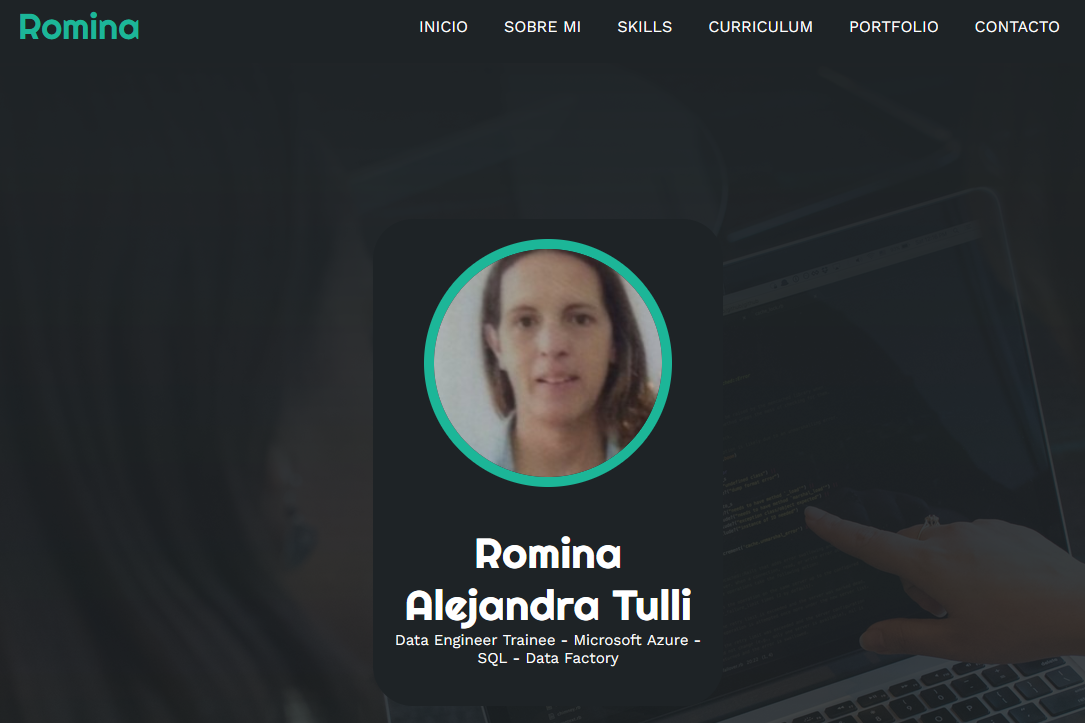
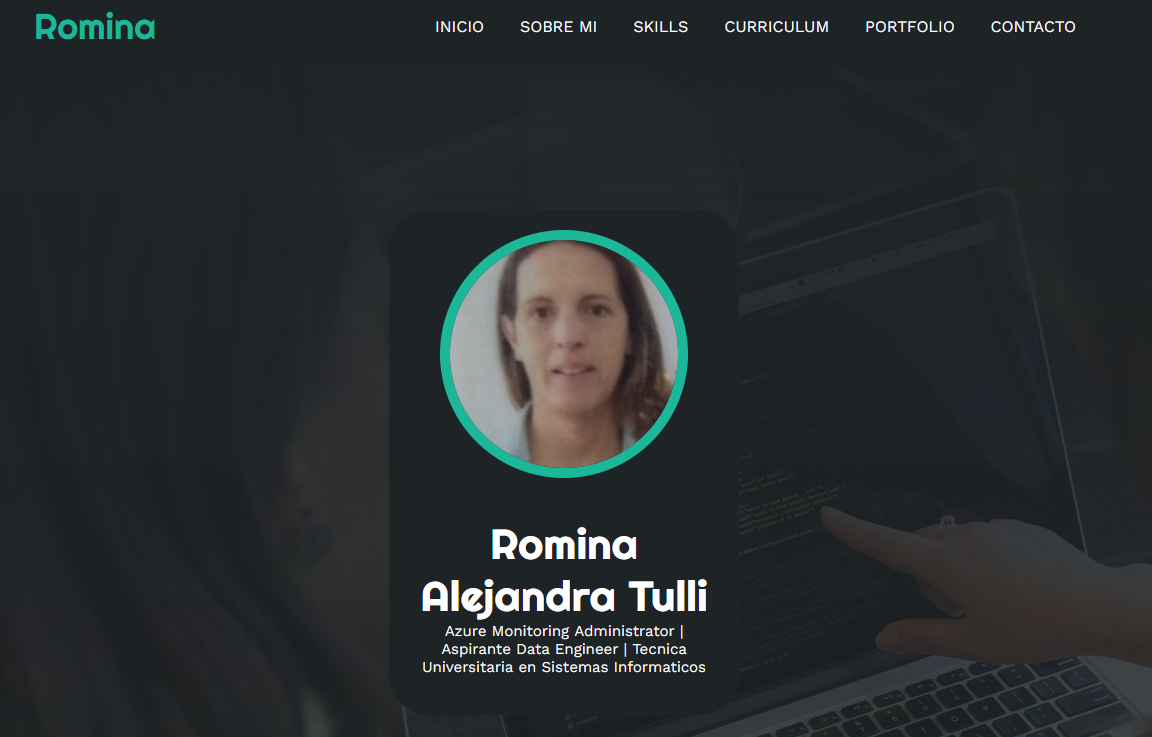
beta 0.2

diff --git a/index.html b/index.html
@@ -42,7 +42,8 @@
                 <img src="img/Romina-Logo.jpg" alt="">
             </div>
             <h1>Romina Alejandra Tulli</h1>
-            <h2>Data Engineer Trainee - Microsoft Azure - SQL - Data Factory </h2>
+            <h2>Azure Monitoring Administrator | Aspirante Data Engineer | Tecnica Universitaria en Sistemas
+                Informaticos </h2>
             <br>
         </div>
     </section>
@@ -109,8 +110,8 @@
                             <img src="/img/logos/azure-datalake.png" alt="Azure DataLake" width="100" height="100">
                             <img src="/img/logos/mysql.png" alt="MySQL" width="100" height="100">
                             <img src="/img/logos/linux.png" alt="Linux" width="100" height="100">
-                            <img src="/img/logos/aws.png" alt="Linux" width="100" height="100">
-                            <img src="/img/logos/excel.png" alt="Linux" width="100" height="100">
+                            <img src="/img/logos/aws.png" alt="AWS" width="100" height="100">
+                            <img src="/img/logos/excel.png" alt="Excel" width="100" height="100">
                         </span>
                     </div>
                 </div>
@@ -122,6 +123,7 @@
                             <img src="/img/logos/python.png" alt="Python" width="100" height="100">
                             <img src="/img/logos/django.png" alt="Django" width="100" height="100">
                             <img src="/img/logos/Javascript.png" alt="Javascript" width="100" height="100">
+                            <img src="/img/logos/nodejs.png" alt="NodeJs" width="100" height="100">
                             <img src="/img/logos/react.png" alt="React" width="100" height="100">
                             <img src="/img/logos/Java.png" alt="Java" width="100" height="100">
                             <img src="/img/logos/spring-boot-logo.jpg" alt="Spring Boot" width="100" height="100">
@@ -134,11 +136,11 @@
                     <h3>Naval Engineering Skills</h3>
                     <div class="skill">
                         <span>
-                            <img src="/img/logos/autodesk-autocad.png" alt="Python" width="100" height="100">
-                            <img src="/img/logos/rhinoceros-3d-logo-770376F408-seeklogo.com.png" alt="Django"
+                            <img src="/img/logos/autodesk-autocad.png" alt="Autocad" width="100" height="100">
+                            <img src="/img/logos/rhinoceros-3d-logo-770376F408-seeklogo.com.png" alt="Rhinoceros"
                                 width="100" height="100">
-                            <img src="/img/logos/microsoft-project-server.png" alt="Django" width="100" height="100">
-
+                            <img src="/img/logos/microsoft-project-server.png" alt="Microsoft Projects" width="100"
+                                height="100">
                         </span>
                     </div>
                 </div>
@@ -146,11 +148,23 @@
                     <h3>Certifications Skills</h3>
                     <div class="skill">
                         <span>
-                            <img src="/img/logos/azure-data-fundamentals.png" alt="Python" width="100" height="100">
-                            <img src="/img/logos/AzureFundamentals.png" alt="Python" width="100" height="100">
-                            <img src="/img/logos/aws cloudFundamentals.png" alt="Python" width="100" height="100">
-                            <img src="/img/logos/CloudPractitioner.png" alt="Python" width="100" height="100">
-                            <img src="/img/logos/dp 203.png" alt="Python" width="100" height="100">
+                            <a href="https://www.credly.com/badges/92033530-f5df-4964-95c2-3fb2f260500f/public_url"
+                                target="_blank">
+                                <img src="/img/logos/azure-data-fundamentals.png" alt="Azure Data Fundamentals"
+                                    width="100" height="100">
+                            </a>
+                            <a href="https://www.credly.com/badges/8f6ac72b-ed97-4c95-aeb0-dfb4fc0956be/public_url"
+                                target="_blank">
+                                <img src="/img/logos/AzureFundamentals.png" alt="Azure Fundamentals" width="100"
+                                    height="100">
+                            </a>
+                            <a href="https://www.credly.com/badges/58b0710e-807d-44c6-8c2c-9281964e9905/public_url"
+                                target="_blank">
+                                <img src="/img/logos/aws cloudFundamentals.png" alt="Aws Cloud Fundamentals" width="100"
+                                    height="100">
+                            </a>
+
+
                         </span>
                     </div>
                 </div>
@@ -168,7 +182,7 @@
                 <div class="col izquierda">
                     <h3>Educación</h3>
                     <div class="item izq">
-                        <h4>Ingenieria Naval</h4>
+                        <h4>Estudiante Ingenieria Naval</h4>
                         <span class="casa">Universidad Tecnologica Nacional Facultad Regional Mar del Plata</span>
                         <span class="fecha">Marzo 2019 - Actualmente</span>
                         <p> </p>
@@ -202,9 +216,8 @@
                         <h4>Docente Universitaria</h4>
                         <span class="casa">Universidad de la Marina Mercante</span>
                         <span class="fecha">Marzo 2024 - Actualmente</span>
-                        <p>Lorem ipsum dolor sit amet consectetur, adipisicing elit. Quis, cumque repellat, tempora
-                            recusandae aliquam nemo esse natus impedit, nostrum temporibus veritatis eaque soluta
-                            aperiam id repudiandae fugiat deserunt! Explicabo, veritatis?</p>
+                        <p>Docente Universitaria de la catedra Gestion de Datos I. Enseñando base de datos relacionales
+                            con Mysql y workbench. </p>
                         <div class="conectord">
                             <div class="circulod"></div>
                         </div>
@@ -213,9 +226,13 @@
                         <h4>Azure Monitoring Administrator</h4>
                         <span class="casa">Accenture Argentina</span>
                         <span class="fecha">Mayo 2021 - Actualmente</span>
-                        <p>Lorem ipsum dolor sit amet consectetur, adipisicing elit. Quis, cumque repellat, tempora
-                            recusandae aliquam nemo esse natus impedit, nostrum temporibus veritatis eaque soluta
-                            aperiam id repudiandae fugiat deserunt! Explicabo, veritatis?</p>
+                        <p>-Garantizar la disponibilidad en los servidores del cliente en el ámbito de Disaster
+                            Recovery.
+                            -Habilitar/Deshabilitar la replicación de las máquinas virtuales en Azure.
+                            -Instalar y actualizar el agente de ASR en los servidores.
+                            -Crear y realizar el seguimiento de los incidentes en la herramienta ServiceNow.
+                            -Trabajar con el método Agile dentro de Azure DevOps.
+                            -Monitorear el backup de los servidores en Cohesity.</p>
                         <div class="conectord">
                             <div class="circulod"></div>
                         </div>
@@ -245,34 +262,7 @@
                             codigo braile a formato texto, para luego poder reproducirlo en formato audio</p>
                     </div>
                 </div>
-                <div class="proyecto">
-                    <img src="img/p3.jpg" alt="">
-                    <div class="overlay">
-                        <h3>Diseño Creativo</h3>
-                        <p>Fotografía</p>
-                    </div>
-                </div>
-                <div class="proyecto">
-                    <img src="img/p4.jpg" alt="">
-                    <div class="overlay">
-                        <h3>Diseño Creativo</h3>
-                        <p>Fotografía</p>
-                    </div>
-                </div>
-                <div class="proyecto">
-                    <img src="img/p5.jpg" alt="">
-                    <div class="overlay">
-                        <h3>Diseño Creativo</h3>
-                        <p>Fotografía</p>
-                    </div>
-                </div>
-                <div class="proyecto">
-                    <img src="img/p6.jpg" alt="">
-                    <div class="overlay">
-                        <h3>Diseño Creativo</h3>
-                        <p>Fotografía</p>
-                    </div>
-                </div>
+
             </div>
         </div>
     </section>
